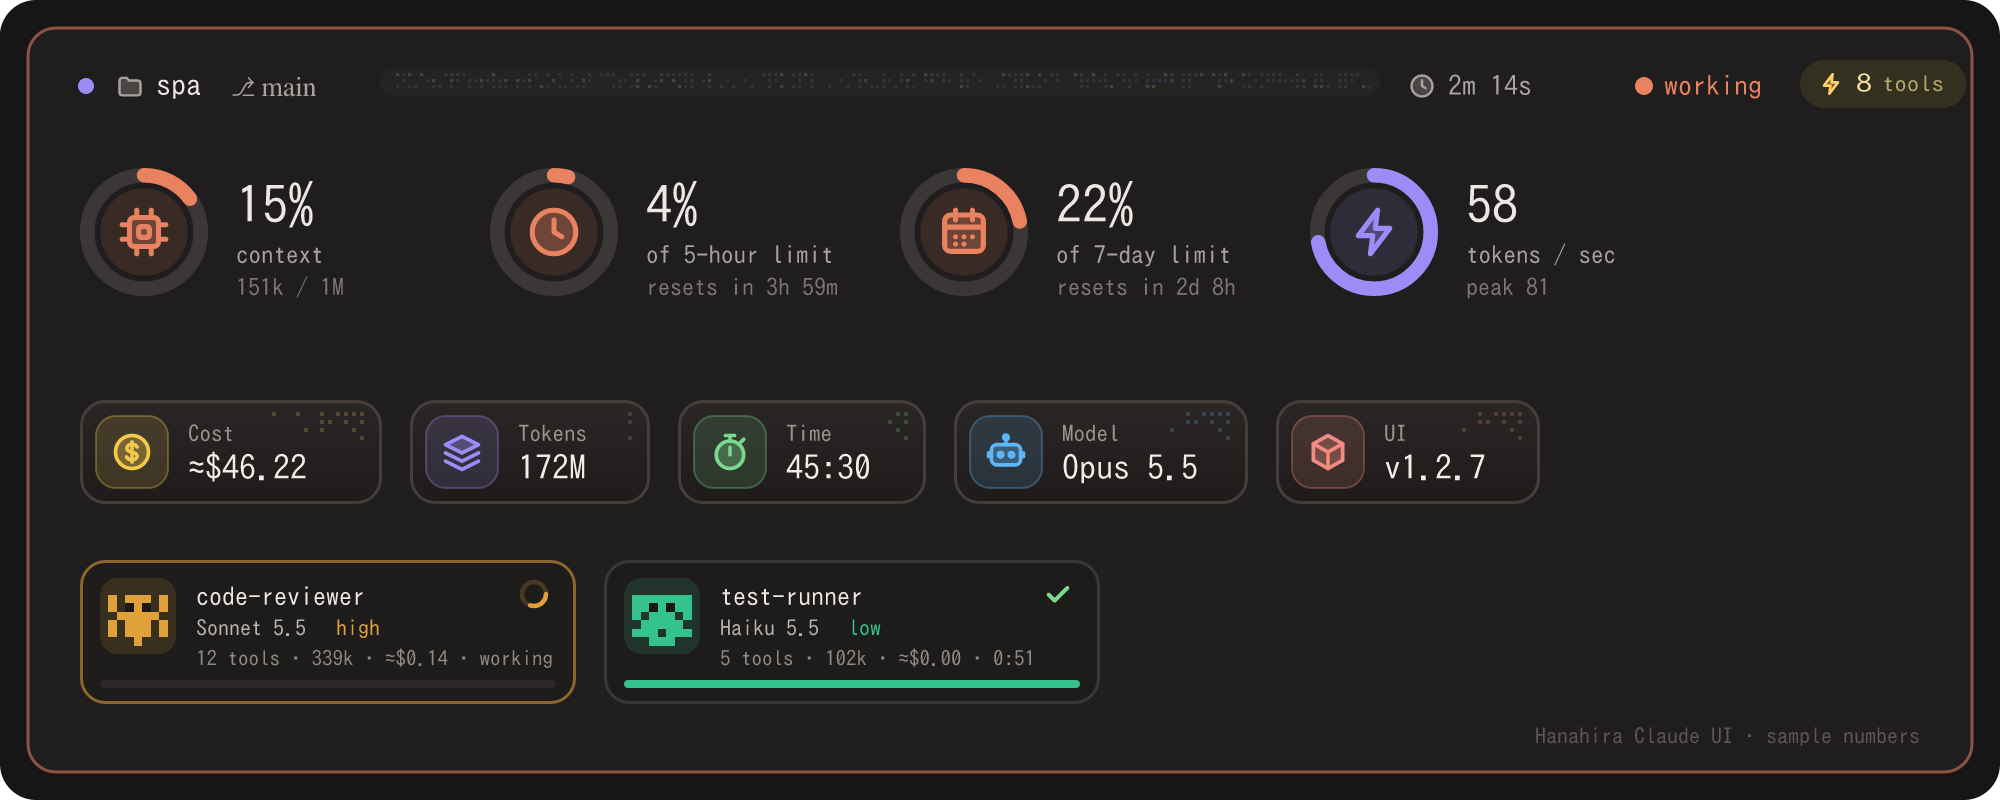
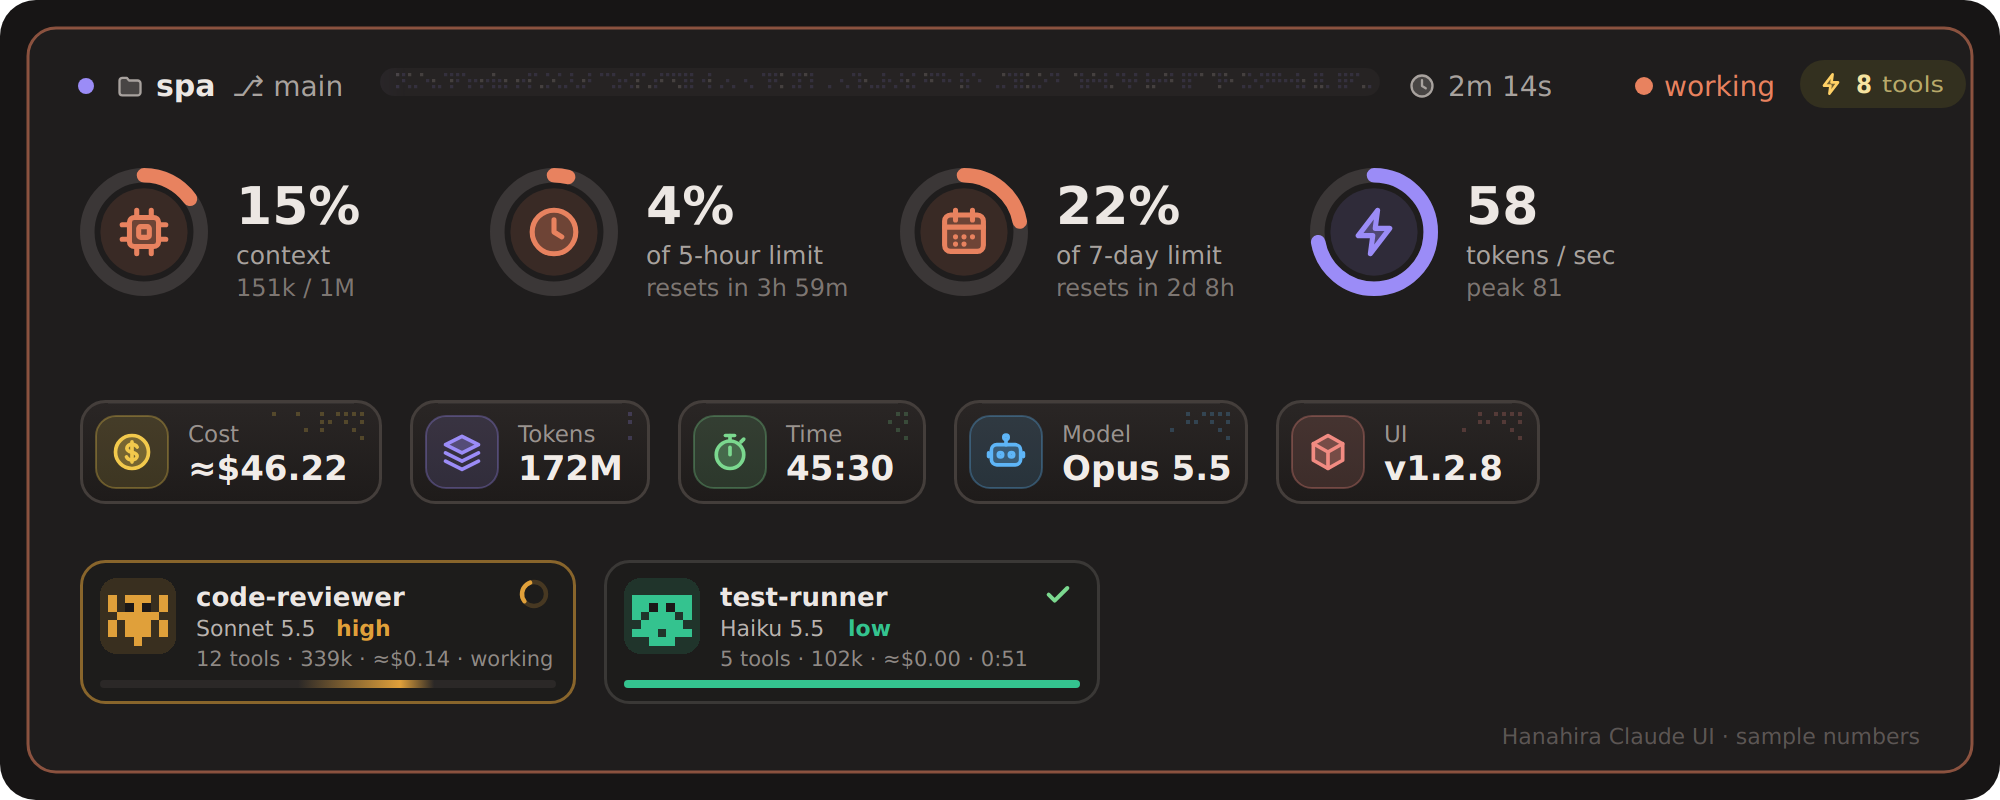
v1.2.8: a compact band, half the height
Version bump so installs pick up the compact band: one-line stats on a
grid that rearranges to fit the band, top-line chips in the same look,
nothing shifting while a turn runs, and larger, centred icons.
preview.svg and preview.png are regenerated.

diff --git a/hooks/version.ts b/hooks/version.ts
@@ -1,3 +1,3 @@
 // Mirrors "version" in .claude-plugin/plugin.json. A hooks module may only import code
 // files, so it cannot read the JSON; version.test.ts keeps the two equal.
-export const VERSION = '1.2.7'
+export const VERSION = '1.2.8'
